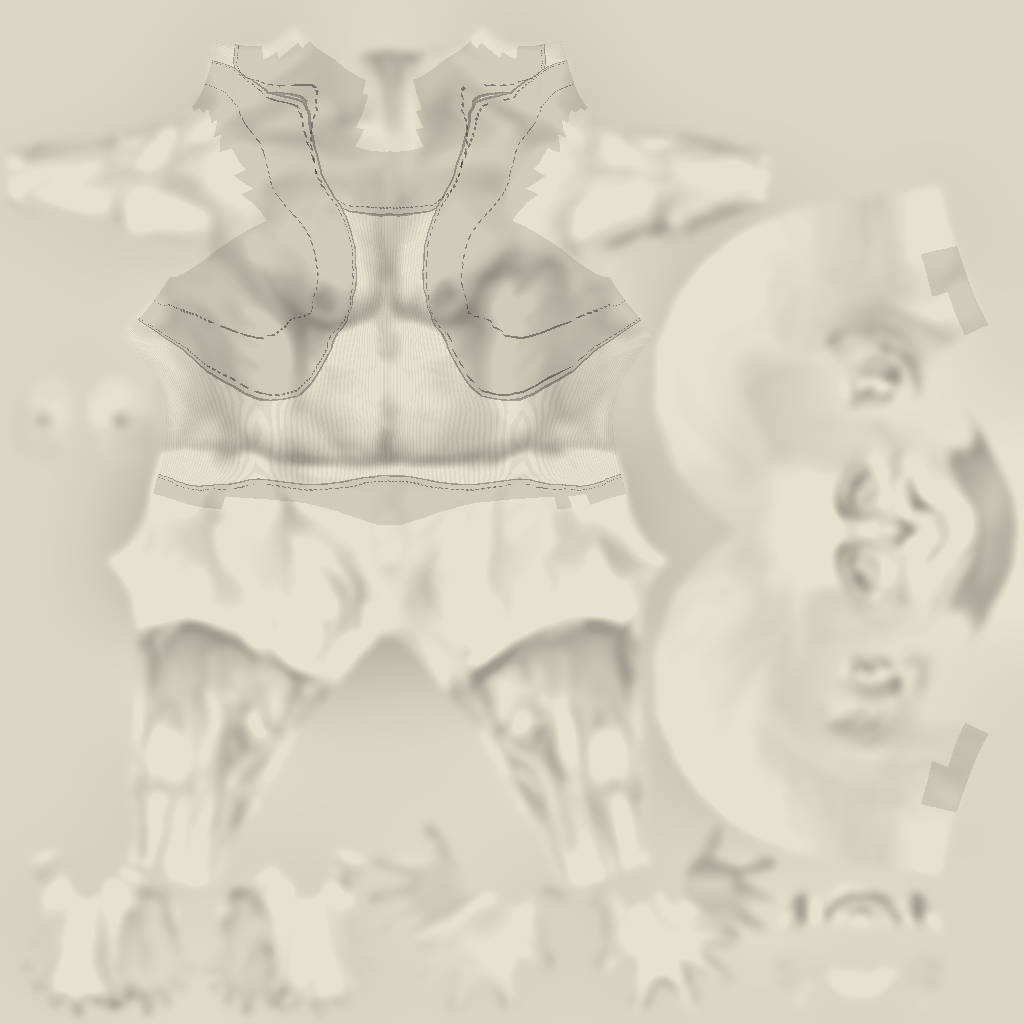
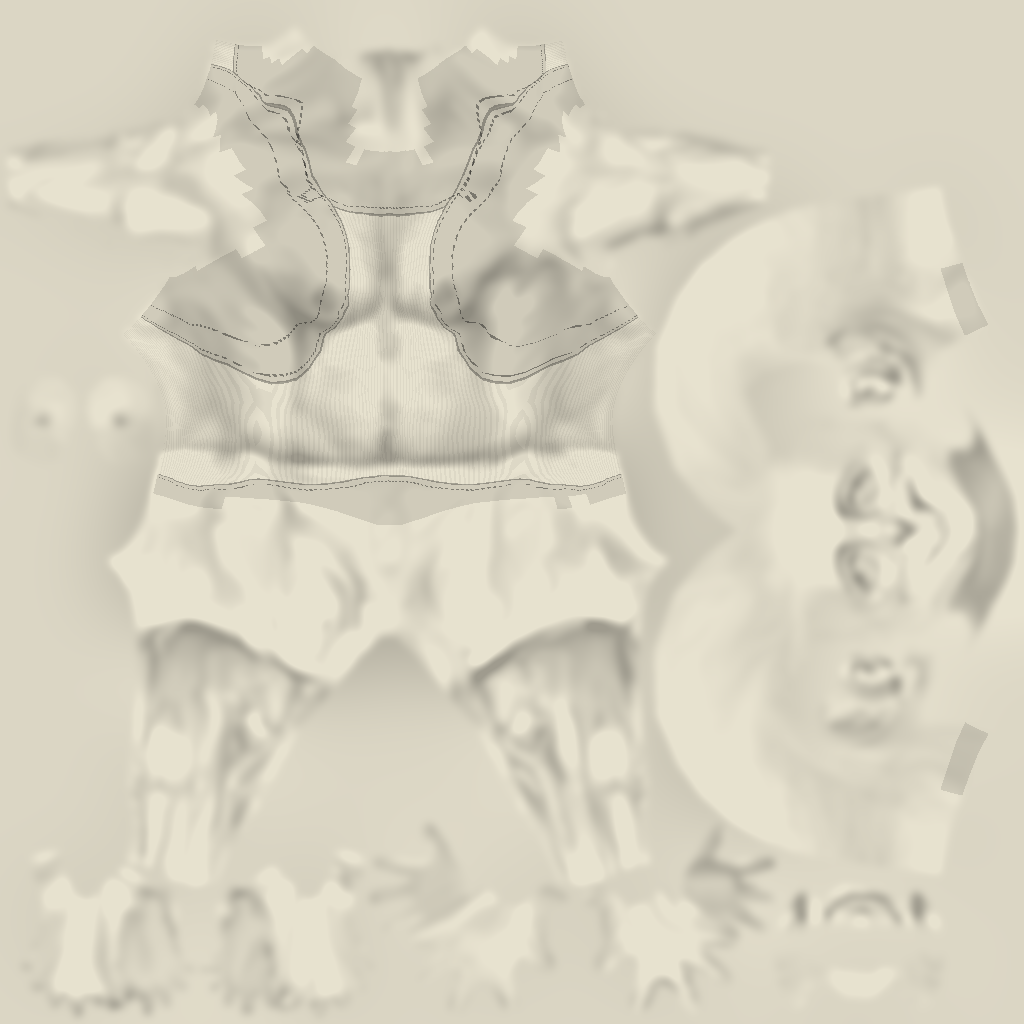
Gulp: figed: the brother's shirt straps narrower; trousers burlap-coloured with a weave, cuffs higher
Claude-Session: https://claude.ai/code/session_018hhQTWAB4pnnkWVR2X6n6A

diff --git a/tools/figed/garments.py b/tools/figed/garments.py
@@ -44,7 +44,7 @@ def rules(fig, P, H, skin_px=None):
     sx, zs = abs(H["upperarm_l"][0]), H["upperarm_l"][2]
     zn, yn = H["neck_01"][2], H["neck_01"][1]
     waist = navel[2] - 0.025
-    cuff = H["foot_l"][2] + 0.075
+    cuff = H["foot_l"][2] + 0.145         # (the user: "his capri a little bit higher"; was 0.075)
     knee = H["calf_l"][2]
     out = {}
     lower = (arm < 0.3) & (up < 0.3) & (leg > 0.5)
@@ -64,8 +64,8 @@ def rules(fig, P, H, skin_px=None):
     line = np.where(y < yn, zs + 0.012, zs + 0.045)      # the neckline height: front, back (5 cm lower showed half the chest)
     # ("and not quite so square": the corners rounded 3.5 cm and the line dipping 1 cm in the middle)
     # (then: "now its not square enough": corners 1.5 cm, the dip 3 mm)
-    line = line - 0.003 * np.clip(1 - (x / 0.078) ** 2, 0, 1)
-    ia, ib, rc = 0.078 - np.abs(x), z - line, 0.015      # how far inside the opening, from its side and its bottom
+    line = line - 0.003 * np.clip(1 - (x / 0.09) ** 2, 0, 1)
+    ia, ib, rc = 0.09 - np.abs(x), z - line, 0.015      # how far inside the opening, from its side and its bottom
     corner = np.sqrt(np.maximum(rc - ia, 0) ** 2 + np.maximum(rc - ib, 0) ** 2) - rc
     neck = np.where((ia < rc) & (ib < rc), corner, -np.minimum(ia, ib)) / 0.05     # > 0 outside the opening
     # how far each point is from the armhole's edge, along the line from the armhole's middle (metres): the band
@@ -73,9 +73,9 @@ def rules(fig, P, H, skin_px=None):
     # round the arm whole")
     hx, hz = np.abs(x) - (sx + 0.05), z - (zs - 0.01)
     rho = np.sqrt(hx ** 2 + hz ** 2)
-    INFO["hole_d"] = rho * (1 - 1 / np.sqrt(np.maximum((hx / 0.092) ** 2 + (hz / 0.175) ** 2, 1e-9)))
-    INFO["band_wide"] = float((sx + 0.05 - 0.092) - 0.078)        # the strap's width at the shoulder
-    hole = ((np.abs(x) - (sx + 0.05)) / 0.092) ** 2 + ((z - (zs - 0.01)) / 0.175) ** 2 - 1
+    INFO["hole_d"] = rho * (1 - 1 / np.sqrt(np.maximum((hx / 0.104) ** 2 + (hz / 0.175) ** 2, 1e-9)))
+    INFO["band_wide"] = float((sx + 0.05 - 0.104) - 0.09)        # the strap's width at the shoulder
+    hole = ((np.abs(x) - (sx + 0.05)) / 0.104) ** 2 + ((z - (zs - 0.01)) / 0.175) ** 2 - 1
     nip = figed_fit.mark_vertices(base)["nipple_l"]       # the armhole must clear the nipple (the user: "It needs to
     print("vest: armhole rule at the nipple %.2f (covered when well over 0)" % hole[nip])   # cover up his nips")
     torso = (arm < 0.3) & (up < 0.75) & (head < 0.3) & (z > waist - 0.1) & (_w(base, ("thigh", "calf")) < 0.3)
@@ -335,6 +335,18 @@ def paint(fig, outfit, name, R, P, path, skin_path=None):
             if per_point is not None:
                 hole_d[gy[ins].astype(int), gx[ins].astype(int)] = np.stack(
                     [b0[ins], b1[ins], b2[ins]], axis=1).dot(per_point[tri])
+    if outfit[name].get("tint"):
+        # another cloth colour over the drawing's own folds and wear (the user: "his pants need to be more burlap
+        # sacky colored"): the drawing's light and dark kept, its colour replaced; "weave" adds a coarse sacking
+        # crosshatch (threads every `weave` metres, across and up)
+        lum = tex.mean(axis=2)
+        lum = lum / max(float(np.median(lum)), 1e-3)
+        tex = np.clip(np.array(outfit[name]["tint"]) * (0.35 + 0.65 * lum)[:, :, None], 0, 1)
+        pitch = outfit[name].get("weave", 0)
+        if pitch:
+            warp = np.sin(across * 2 * np.pi / pitch) > 0.2
+            weft = np.sin(upward * 2 * np.pi / pitch) > 0.2
+            tex = tex * (1.0 - 0.06 * warp - 0.06 * weft + 0.04 * (warp & weft))[:, :, None]
     if outfit[name].get("paint") == "shade" and skin_path:
         # Thin tight cloth: its light and shade is the BODY's under it (the user: "the texture needs to frame his
         # pecs"). The skin picture's own painted shading, blurred so hair and marks do not show, lightens and

diff --git a/tools/figed/README.md b/tools/figed/README.md
@@ -772,3 +772,9 @@ cuffs and braces hanging at the hips: `tools/art_src/concept_brother_bible_outfi
   `INFO["band_wide"]`: the strap's width at the shoulder, about 7 cm), so the straps are the top of one broad band
   that carries on round under the arm, front and back, with a seam and a row of stitches along its inner edge.
   The neck's corners are back to 1.5 cm and its dip to 3 mm.
+- The user: "the straps are too thick"; "his pants need to be more burlap sacky colored"; "his capri a little bit
+  higher". Shirt: the neck's half-width 0.09 and the armhole's 0.104, so the straps and the band round the
+  armholes are about 4.5 cm (nipple rule 0.64). Trousers: `"tint"` in the outfit file replaces the drawing's
+  colour and keeps its light and dark (a dull tan, 0.60 0.51 0.38; a brighter 0.66 0.54 0.36 read as mustard),
+  `"weave"` adds a sacking crosshatch every 5 mm (it shows moire in small renders). The cuff's lower edge is
+  14.5 cm above the ankle joint (was 7.5), so they end at mid-calf.
